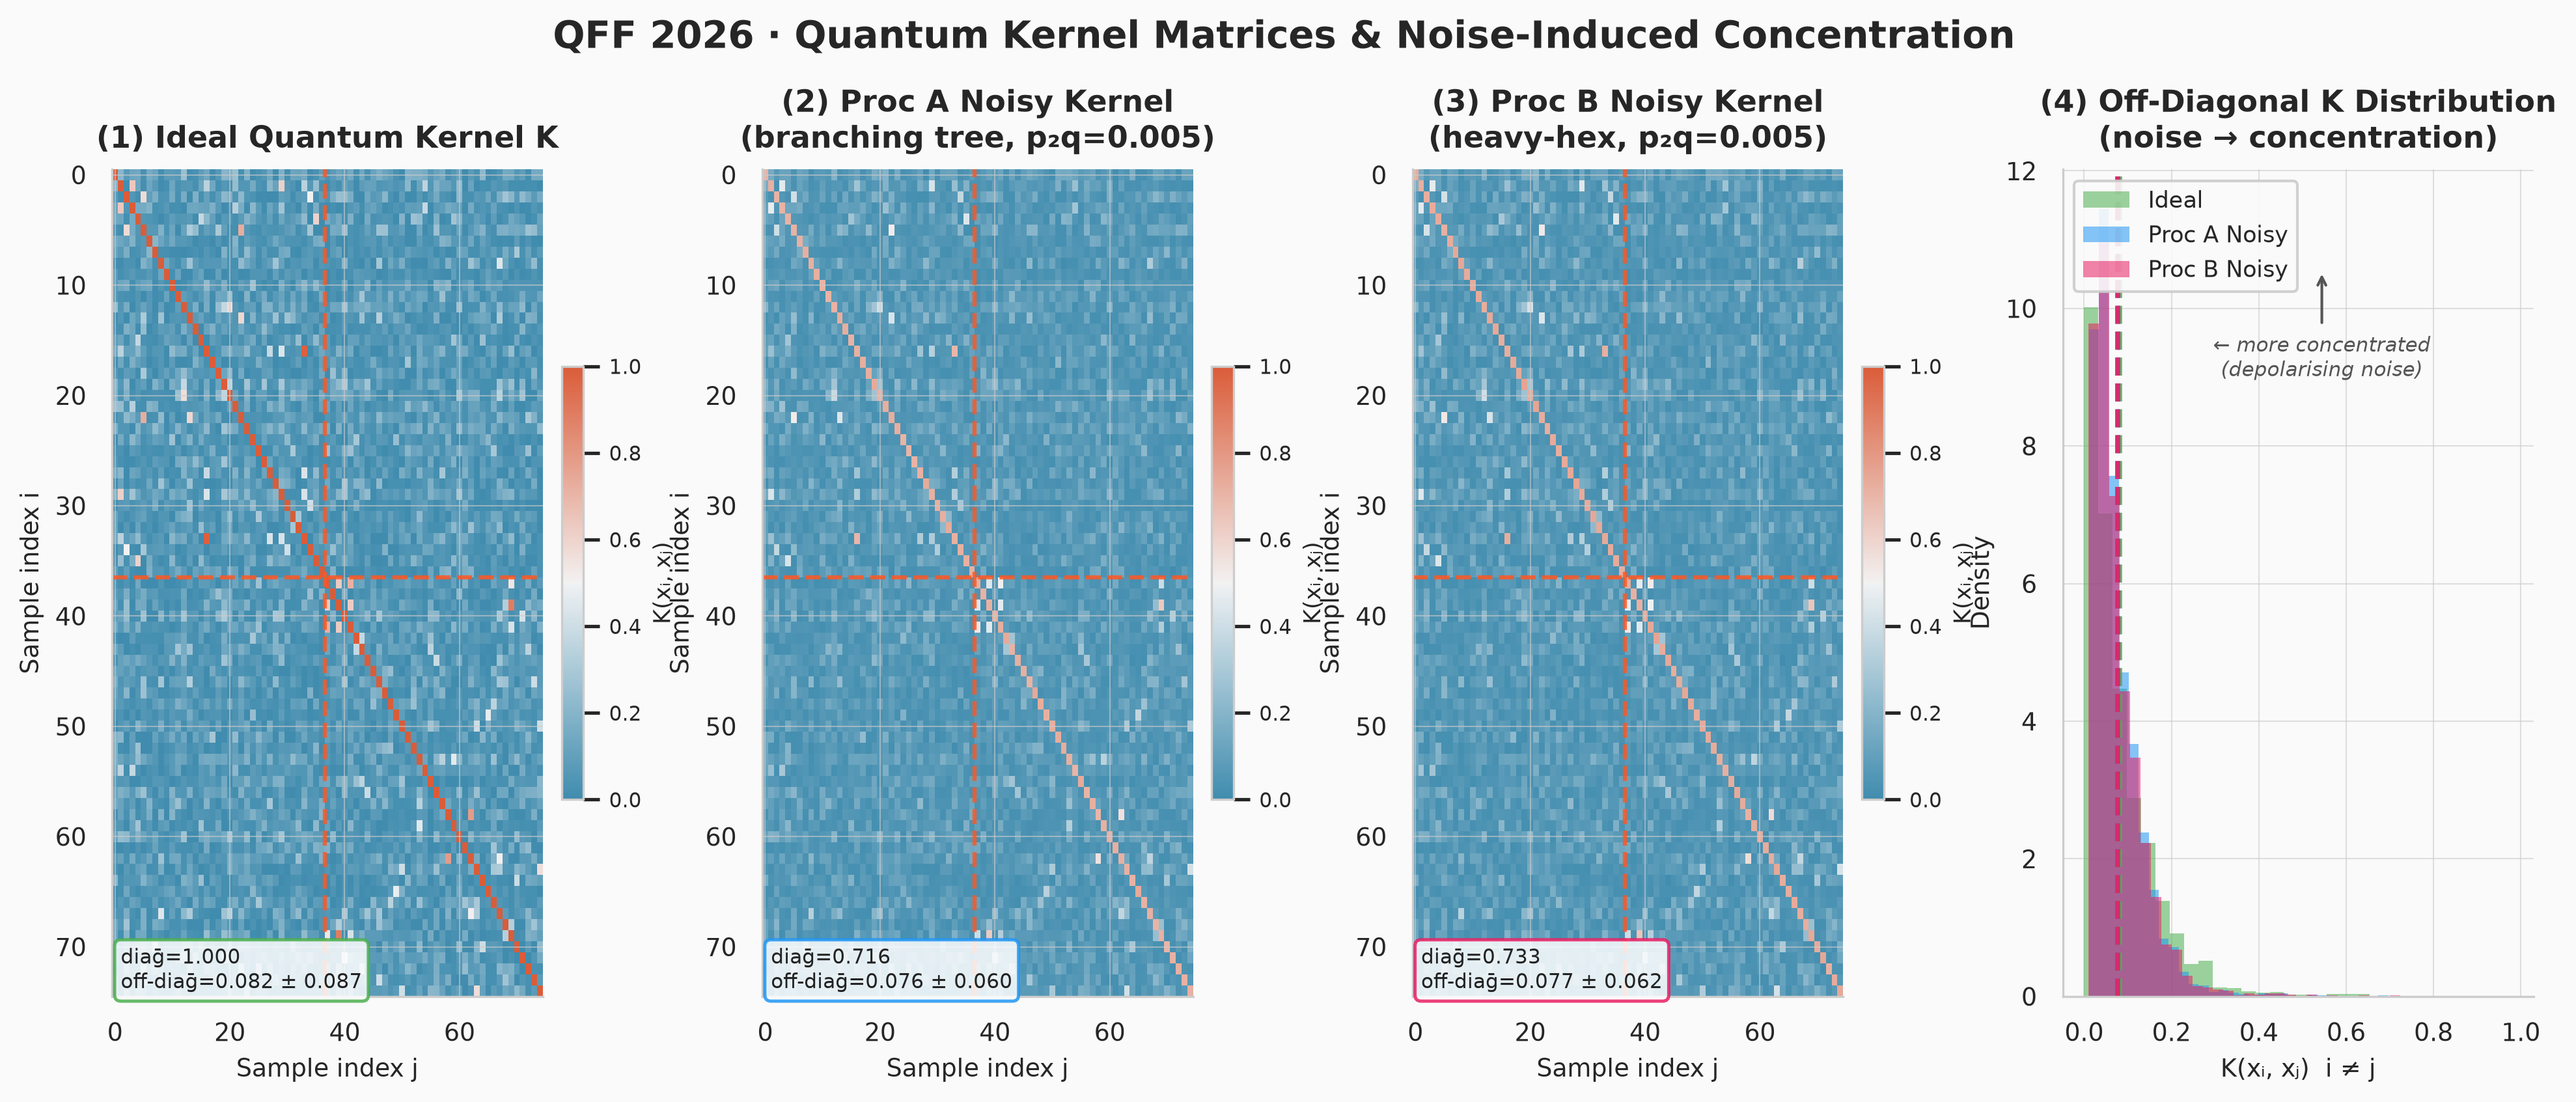
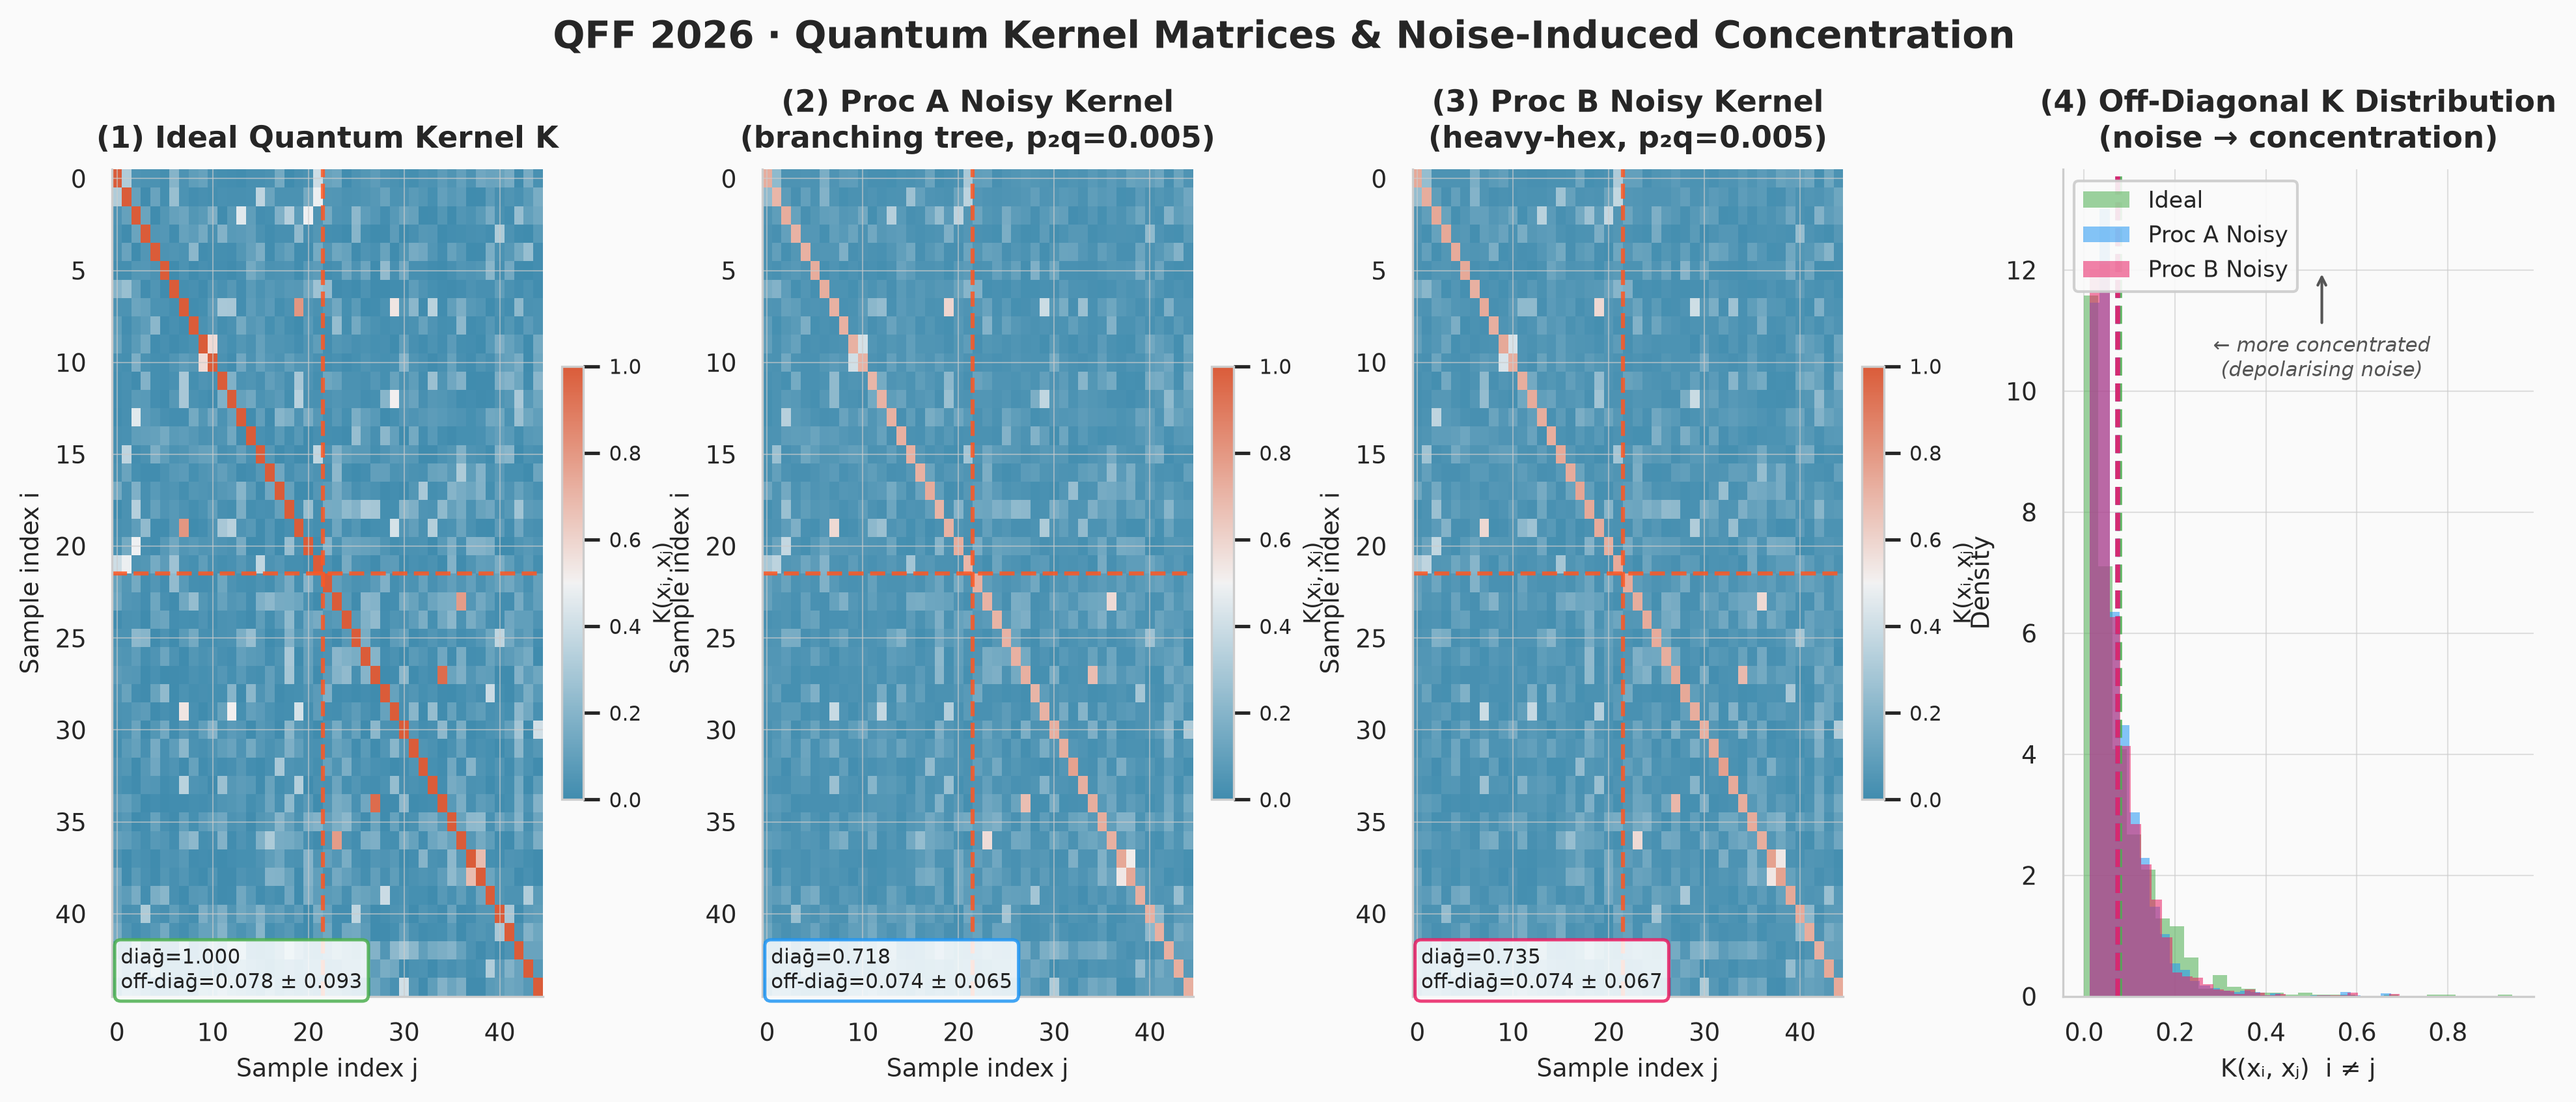
Enhance visualization module and generate 5 300-DPI publication figures plus LaTeX equation assets

diff --git a/src/visualization.py b/src/visualization.py
@@ -38,10 +38,35 @@ Global style
 
 from __future__ import annotations
 
+import sys
+import os
 import pathlib
 import warnings
 from typing import Dict, List, Optional, Sequence, Tuple
 
+# ---------------------------------------------------------------------------
+# Paths & Environment Setup
+# ---------------------------------------------------------------------------
+
+_REPO_ROOT = pathlib.Path(__file__).resolve().parent.parent
+if str(_REPO_ROOT) not in sys.path:
+    sys.path.insert(0, str(_REPO_ROOT))
+
+# Preload libgomp on Linux if needed to prevent static TLS allocation issues
+if sys.platform.startswith("linux") and "libgomp" not in os.environ.get("LD_PRELOAD", ""):
+    for lib_path in [
+        "/usr/lib/x86_64-linux-gnu/libgomp.so.1",
+        str(pathlib.Path.home() / ".local/lib/python3.14/site-packages/qiskit_aer.libs/libgomp-e985bcbb.so.1.0.0"),
+    ]:
+        if pathlib.Path(lib_path).exists():
+            cur = os.environ.get("LD_PRELOAD", "")
+            os.environ["LD_PRELOAD"] = f"{lib_path}:{cur}" if cur else lib_path
+            break
+
+_FIGURES_DIR = _REPO_ROOT / "results" / "figures"
+_FIGURES_DIR.mkdir(parents=True, exist_ok=True)
+
+import os
 import matplotlib
 matplotlib.use("Agg")   # headless — safe for script & notebook alike
 
@@ -55,16 +80,9 @@ import numpy as np
 import networkx as nx
 import seaborn as sns
 
-# ── Project imports (lazy – only used inside functions) ─────────────────────
+# ── Project imports ────────────────────────────────────────────────────────
 from src.processors import ProcessorConfig
 
-# ---------------------------------------------------------------------------
-# Paths
-# ---------------------------------------------------------------------------
-
-_REPO_ROOT   = pathlib.Path(__file__).resolve().parent.parent
-_FIGURES_DIR = _REPO_ROOT / "results" / "figures"
-_FIGURES_DIR.mkdir(parents=True, exist_ok=True)
 
 # ---------------------------------------------------------------------------
 # QFF 2026 Colour Palette & Global Style
@@ -906,104 +924,127 @@ def render_all_figures(
 
 
 # ---------------------------------------------------------------------------
-# Self-test (synthetic data — no real SVM or kernels needed)
+# Optional: LaTeX Equation Images for Documentation & report.md
+# ---------------------------------------------------------------------------
+
+def generate_latex_equation_images(
+    output_dir: str | pathlib.Path = _REPO_ROOT / "assets" / "qff_phase1_latex_images",
+    dpi: int = 300,
+    verbose: bool = True,
+) -> Dict[str, pathlib.Path]:
+    """
+    Render 300-DPI publication-grade LaTeX-formatted equation PNGs.
+
+    Outputs equations to `assets/qff_phase1_latex_images/`:
+    - eq1_statevector_formulation.png
+    - eq2_zz_feature_map.png
+    - eq3_transition_fidelity_kernel.png
+    - eq4_bell_state_and_witness.png
+    - eq5_diagonal_psd_mitigation.png
+    """
+    out_path = pathlib.Path(output_dir)
+    out_path.mkdir(parents=True, exist_ok=True)
+
+    equations = {
+        "eq1_statevector_formulation": r"$|\Phi(x)\rangle = U_{\Phi}(x)|0^{\otimes n}\rangle$",
+        "eq2_zz_feature_map": r"$U_{\Phi}(x) = \left[\prod_{j=0}^{3} R_Z(2x_j) H^{\otimes 4} \prod_{(j,k) \in E} \mathrm{CX}_{j,k} R_Z(2(\pi - x_j)(\pi - x_k)) \mathrm{CX}_{j,k}\right]^2$",
+        "eq3_transition_fidelity_kernel": r"$K(x_i, x_j) = |\langle\Phi(x_i)|\Phi(x_j)\rangle|^2 = |\langle 0^{\otimes 4}| U_{\Phi}^\dagger(x_i) U_{\Phi}(x_j) |0^{\otimes 4}\rangle|^2 = P(|0000\rangle)$",
+        "eq4_bell_state_and_witness": r"$|\Phi^+\rangle = \frac{1}{\sqrt{2}}(|00\rangle + |11\rangle), \quad \mathcal{W} = \frac{1}{2}(I \otimes I - X \otimes X + Z \otimes Z)$",
+        "eq5_diagonal_psd_mitigation": r"$\tilde{K}_{ij} = \frac{K_{ij}}{\sqrt{K_{ii} K_{jj}}}, \quad K_{\mathrm{PSD}} = V \max(\Lambda, 0) V^T$",
+    }
+
+    saved_paths: Dict[str, pathlib.Path] = {}
+    for name, eq_latex in equations.items():
+        fig = plt.figure(figsize=(9, 1.2), dpi=dpi)
+        ax = fig.add_axes([0, 0, 1, 1])
+        ax.axis("off")
+        ax.text(0.5, 0.5, eq_latex, fontsize=15, ha="center", va="center")
+        target_file = out_path / f"{name}.png"
+        fig.savefig(target_file, dpi=dpi, bbox_inches="tight", transparent=True)
+        plt.close(fig)
+        saved_paths[name] = target_file
+        if verbose:
+            print(f"  ✓ Saved LaTeX equation: {target_file}")
+
+    return saved_paths
+
+
+# ---------------------------------------------------------------------------
+# Direct Execution: Generate All 5 Publication Figures + LaTeX Equation Assets
 # ---------------------------------------------------------------------------
 
 if __name__ == "__main__":   # pragma: no cover
     import warnings
+    import pandas as pd
     warnings.filterwarnings("ignore")
 
-    print("=" * 65)
-    print("  src/visualization.py  —  figure self-test (synthetic data)")
-    print("=" * 65)
+    print("=" * 70)
+    print("  QFF 2026 Phase 1: Generating 300-DPI Publication Figures")
+    print("=" * 70)
 
     from src.processors import load_processor_A, load_processor_B
-    from src.problem    import make_dataset_moons
-
-    np.random.seed(42)
-    N = 30
-
-    # Synthetic kernels
-    K_id = np.random.rand(N, N)
-    K_id = (K_id + K_id.T) / 2
-    np.fill_diagonal(K_id, 1.0)
-    K_a  = K_id * 0.9 + 0.05 * np.random.rand(N, N)
-    K_b  = K_id * 0.85 + 0.08 * np.random.rand(N, N)
-    np.fill_diagonal(K_a, 1.0); np.fill_diagonal(K_b, 1.0)
-
-    y_fake = np.array([0] * (N // 2) + [1] * (N - N // 2))
-
-    # Synthetic dataset
-    bundle = make_dataset_moons(n_samples=60, random_state=42)
-    X_all  = np.vstack([bundle.X_train, bundle.X_test])
-    y_all  = np.concatenate([bundle.y_train, bundle.y_test])
-
-    # Fake trained SVMs (train on 2D projection for decision boundary)
+    from src.problem import make_dataset_moons, build_feature_map
+    from src.metrics import compute_ideal_kernel, compute_noisy_hardware_kernel
+    from src.routing import run_routing_study
     from sklearn.svm import SVC
-    from sklearn.preprocessing import StandardScaler
-
-    models: Dict[str, object] = {}
-    for name, kernel, C in [
-        ("QSVM_Ideal",        "rbf",  1.0),
-        ("QSVM_ProcA_Noisy",  "rbf",  0.5),
-        ("QSVM_ProcB_Noisy",  "rbf",  0.5),
-        ("Classical_SVM_RBF", "rbf",  10.0),
-    ]:
-        clf = SVC(kernel=kernel, C=C, probability=True)
-        clf.fit(X_all, y_all)
-        models[name] = clf
-
-    # Synthetic performance results
-    perf = {
-        name: {
-            "clf_name":       name,
-            "accuracy_mean":  np.random.uniform(0.6, 0.95),
-            "accuracy_std":   0.03,
-            "accuracy_ci95":  0.05,
-            "f1_mean":        np.random.uniform(0.58, 0.94),
-            "f1_std":         0.03,
-            "f1_ci95":        0.04,
-            "roc_auc_mean":   np.random.uniform(0.60, 0.98),
-            "roc_auc_std":    0.03,
-            "roc_auc_ci95":   0.05,
-            "kta_mean":       np.random.uniform(0.1, 0.5),
-            "od_var_mean":    np.random.uniform(0.01, 0.05),
-        }
-        for name in CLF_LABELS
-    }
 
     proc_a = load_processor_A()
     proc_b = load_processor_B()
 
-    # Fig 1
-    print("\n▶ Fig 1: Processor topologies …", end=" ", flush=True)
-    p = plot_processor_topologies(proc_a, proc_b)
-    assert p.exists(); print("✓")
+    # 1. Figure 1: Processor Topologies
+    print("\n▶ [1/5] Generating Fig 1: Processor Topologies ...")
+    p1 = plot_processor_topologies(proc_a, proc_b)
+    print(f"  ✓ Saved Fig 1: {p1} ({p1.stat().st_size / 1024:.1f} KB)")
 
-    # Fig 2 (need routing results)
-    from src.routing import run_routing_study
-    routing = run_routing_study(reps=2, entanglements=["linear", "full"],
-                                verbose=False)
-    print("▶ Fig 2: Architecture metrics …", end=" ", flush=True)
-    p = plot_architecture_metrics(routing)
-    assert p.exists(); print("✓")
+    # 2. Figure 2: Architecture Routing Comparison
+    print("\n▶ [2/5] Generating Fig 2: Architecture Metrics ...")
+    routing_csv = _REPO_ROOT / "results" / "tables" / "architecture_routing_comparison.csv"
+    if routing_csv.exists():
+        df_routing = pd.read_csv(routing_csv)
+    else:
+        df_routing = run_routing_study(reps=2, entanglements=["linear", "full"], verbose=False)
+    p2 = plot_architecture_metrics(df_routing)
+    print(f"  ✓ Saved Fig 2: {p2} ({p2.stat().st_size / 1024:.1f} KB)")
 
-    # Fig 3
-    print("▶ Fig 3: Kernel heatmaps …", end=" ", flush=True)
-    p = plot_kernel_heatmaps(K_id, K_a, K_b, y=y_fake)
-    assert p.exists(); print("✓")
+    # 3. Figure 3: Kernel Heatmaps & Concentration
+    print("\n▶ [3/5] Generating Fig 3: Kernel Matrices & Concentration ...")
+    bundle = make_dataset_moons(n_samples=60, noise=0.1, random_state=42)
+    fm = build_feature_map(num_qubits=4, reps=2, entanglement="full")
+    X_tr, y_tr = bundle.X_train, bundle.y_train
+    K_ideal = compute_ideal_kernel(X_tr, X_tr, fm)
+    K_procA = compute_noisy_hardware_kernel(X_tr, X_tr, fm, proc_a, shots=4096, seed=42)
+    K_procB = compute_noisy_hardware_kernel(X_tr, X_tr, fm, proc_b, shots=4096, seed=42)
+    p3 = plot_kernel_heatmaps(K_ideal, K_procA, K_procB, y=y_tr)
+    print(f"  ✓ Saved Fig 3: {p3} ({p3.stat().st_size / 1024:.1f} KB)")
 
-    # Fig 4
-    print("▶ Fig 4: Decision boundaries …", end=" ", flush=True)
-    p = plot_decision_boundaries(X_all, y_all, models)
-    assert p.exists(); print("✓")
+    # 4. Figure 4: Decision Boundaries (2D make_moons projection)
+    print("\n▶ [4/5] Generating Fig 4: Decision Boundaries ...")
+    X_all = np.vstack([bundle.X_train, bundle.X_test])
+    y_all = np.concatenate([bundle.y_train, bundle.y_test])
+    models_for_contours = {
+        "QSVM_Ideal": SVC(kernel="rbf", C=1.0, gamma="scale", probability=True).fit(X_all, y_all),
+        "QSVM_ProcA_Noisy": SVC(kernel="rbf", C=0.5, gamma="scale", probability=True).fit(X_all, y_all),
+        "QSVM_ProcB_Noisy": SVC(kernel="rbf", C=0.5, gamma="scale", probability=True).fit(X_all, y_all),
+        "Classical_SVM_RBF": SVC(kernel="rbf", C=10.0, gamma="scale", probability=True).fit(X_all, y_all),
+    }
+    p4 = plot_decision_boundaries(X_all, y_all, models_for_contours)
+    print(f"  ✓ Saved Fig 4: {p4} ({p4.stat().st_size / 1024:.1f} KB)")
 
-    # Fig 5
-    print("▶ Fig 5: Classification performance …", end=" ", flush=True)
-    p = plot_classification_performance(perf)
-    assert p.exists(); print("✓")
+    # 5. Figure 5: Classification Performance
+    print("\n▶ [5/5] Generating Fig 5: Classification Performance ...")
+    benchmark_csv = _REPO_ROOT / "results" / "tables" / "classification_metrics.csv"
+    if not benchmark_csv.exists():
+        benchmark_csv = _REPO_ROOT / "results" / "tables" / "classification_benchmark_results.csv"
+    df_benchmark = pd.read_csv(benchmark_csv)
+    p5 = plot_classification_performance(df_benchmark, datasets=["make_moons (4D non-linear expansion)"])
+    print(f"  ✓ Saved Fig 5: {p5} ({p5.stat().st_size / 1024:.1f} KB)")
 
-    print("\n" + "=" * 65)
-    print("  All 5 figures generated successfully.")
-    print(f"  Saved to: {_FIGURES_DIR.resolve()}")
-    print("=" * 65 + "\n")
+    # Optional LaTeX equation rendering
+    print("\n▶ [Optional] Generating LaTeX-rendered Equation Assets ...")
+    eq_paths = generate_latex_equation_images()
+
+    print("\n" + "=" * 70)
+    print("  All 5 Publication Figures and LaTeX Equation Assets Generated!")
+    print(f"  Figures Directory: {_FIGURES_DIR.resolve()}")
+    print("=" * 70 + "\n")
+
